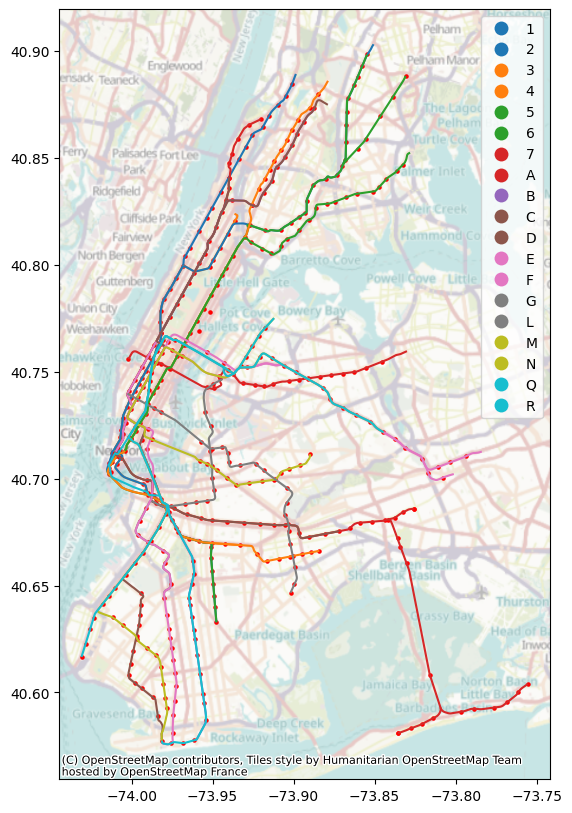
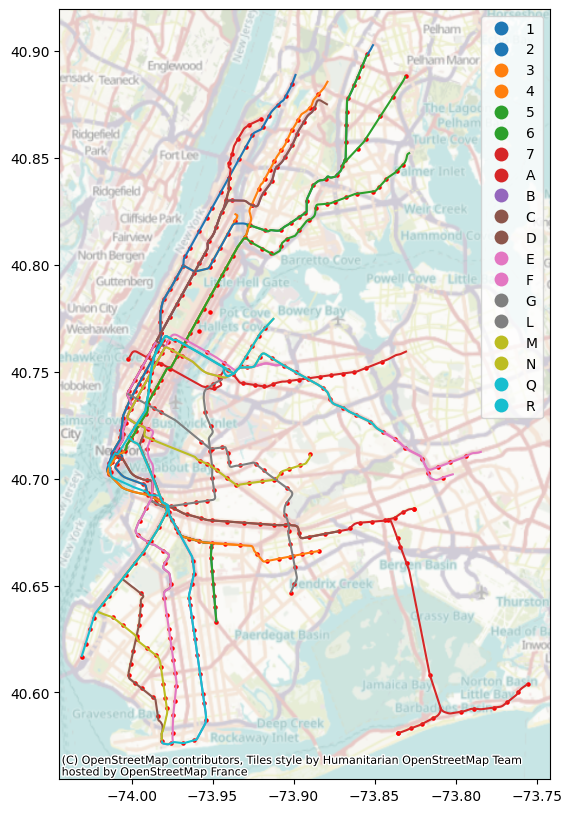
add new page

diff --git a/pages/A special case of the inspection paradox.py b/pages/A special case of the inspection paradox.py
@@ -1,0 +1,138 @@
+import h3
+import h3pandas
+import pandas as pd
+import plotly.graph_objects as go
+import geopandas as gpd
+import contextily as cx
+from shapely.geometry import Polygon
+import plotly.express as px
+from shapely.wkt import loads
+import networkx as nx
+import itertools as it
+import numpy as np
+from sklearn.preprocessing import RobustScaler
+import streamlit as st
+import h3
+import h3pandas
+import pandas as pd
+import plotly.graph_objects as go
+import geopandas as gpd
+import contextily as cx
+from shapely.geometry import Polygon, LineString, Point, MultiLineString, MultiPoint
+import plotly.express as px
+from shapely.wkt import loads
+import networkx as nx
+import itertools as it
+import numpy as np
+import shapely
+from pyproj import Geod
+from shapely import ops, geometry
+import re
+import matplotlib.pyplot as plt
+import matplotlib
+
+st.markdown("""
+    
+    """)
+
+st.markdown("""
+Suppose you are tasked with the following problem:
+You would like to calculate the fall-out rate of your friendships.
+Suppose to make new friends at regular intervals, and your friendships can go on at most 3 years.
+In order to calculate the length of your friendship, you need both the start and end dates.
+There are two possible ways a friendship can end: amicably and spitefully.
+A friendship can end in spite at any given point in the friendship. When a friendship ends in spite, this is called a fall-out.
+You would like to calculate the fall-out rate of your friendships, defined as: (# of fall outs)/(# of friendships) across any given interval of time.
+Suppose you started gathering data 3 years ago, and have since made X friends and collected their respective start dates.
+You were able to observe the outcomes of all X friendships. However, you still would like to use more data.
+
+You have the following option: you are able to reach out to people with whom you were friends with exactly three years ago
+(i.e. your friendship began before you began to experiment, but existed during.) You can reach out to them and ask for the start dates of those friendships.
+You retrospectively know the outcomes of those friendships, and collecting their start date would allow you to add these observations to your dataset.
+
+The question is: should you do this? You want to keep your observations unbiased.
+Is there a way in which you can include this retrospective data without introducing bias? 
+""")
+
+st.markdown("""
+You might recognize this as survivorship bias. Specifically, as it relates to time, it is a special
+base of the bus (or inspection) paradox, which asserts that your measurement of the length of an interval is biased by the fact that
+you are more likely to sample from longer intervals. In the case of the bus paradox, this means that the average wait time experienced by a rider is longer than
+the average time between stops for the bus driver, because a rider arriving at a bus stop is more likely to encounter delayed schedules.
+There is a similar effect in the case of friendships, where your friends tend to be more popular than you are,
+because you are more likely to be friends with people who are themselves popular. And of course, there is the classic example of the WWII airplanes, where
+the planes which returned from missions were more likely to be the ones which survived, and structural weaknesses were actually more likely to be
+in places where the survived planes were not shot. 
+
+Just like the above three examples, your experiment to measure the fall-out rate of your friendships is biased by the fact that you are more likely to sample longer friendships
+if you include observations sampled from a single point in time (exactly three years ago). This is because you are more likely to sample friendships that survive longer.
+However, you are not trying to sample to average length of a friendship -- you are trying to sample the average outcome.
+
+Ah -- there it is. The real question is: are outcomes independent of the length of a friendship? If so, then it doesn't matter if you sample from a single point in time or not,
+since friendships of any length are equally likely to end in a fall-out. This may not be intuitively obvious. You may argue, "still, you
+are you are more likely to sample from longer friendships. Therefore, friendships which have already ended in fall-outs are underrepresented in your sample, even though they
+may have began at the same time as your current friendships."
+# talk about constant hazards in a left-truncated sample
+
+So, we find that: including retrospective data is not biased if the outcome of a friendship is independent of the length of the friendship. However, what if it is? 
+Let's consider two possibilities: if the fall-out rate increases over time, and if the fall-out rate decreases over time.
+"""
+)
+
+st.markdown("## Degrading fall-out rates")
+st.markdown("""
+Suppose that the risk of fall-out decreases as a function of time. Therefore, the longer a friendship lasts, the less likely it is to end in a fall-out. In other words,
+fall-outs are more likely to be observed among the population of new friends than old friends.
+""")
+
+st.markdown("## Growing fall-out rates")
+st.markdown("""
+Suppose that the risk of fall-out increases as a function of time. The longer you are friends with someone, the more likely you are to fall out with them.
+How the instantaneous fallâ€‘out hazard Î»(age) behaves
+Effect of including the older, leftâ€‘truncated friendships (no age adjustment)
+Direction of bias in the naÃ¯ve fallâ€‘out proportion
+Hazard increases with age(friendships get more fragile the longer they last)
+The extra friendships you import are older and therefore enter the threeâ€‘year window with a higher perâ€‘year risk of ending than the new ones you are primarily interested in.Â  They add a disproportionately large number of fallâ€‘outs to the numerator while counting fully in the denominator.
+Bias upward â€“ you will overâ€‘estimate the true fallâ€‘out rate for a cohort of newly formed friendships.
+Hazard decreases with age(friendships get more stable over time)
+Only the robust friendships survive long enough to appear at baseline; these older ties now carry a lower perâ€‘year risk of ending than brandâ€‘new friendships.Â  They inflate the denominator but contribute relatively few events to the numerator.Â  In addition, the highâ€‘risk early failures that occurred before the study are missing entirely.
+Bias downward â€“ you will underâ€‘estimate the true fallâ€‘out rate for newly formed friendships.
+""")
+
+st.markdown("## Conclusion")
+st.markdown("""
+    So, what should you do? Since the reliability of this experiment is dependent on the relationship between the fall-out rate and time, if you resolve the
+    functional form of this relationship, then you can back-calculate the bias introduced by including retrospective data, and then you can use this to
+    adjust your observations. You can't change the fact that your samples are biased, but you can adjust your analysis to account for it, just
+    like how you can choose to add armor to the places where the planes were not shot.
+    
+    Why this happens
+	1.	Left truncation / survivorship selection
+A friendship that began before the study is observed only if it survived up to time 0.  Survival to that age is informative whenever λ(age) is not flat.
+	2.	No age model ⇒ implicit mixing
+By treating all friendships identically in the analysis you implicitly weight the risk set toward older ages.  If older age carries different hazard, the overall event rate you compute is pulled in that direction.
+	3.	Direction of distortion
+Increasing hazard: older friendships have more future risk ⇒ proportion ends rises.
+Decreasing hazard: older friendships have less future risk and early high‑risk ties are missing ⇒ proportion ends falls.
+
+Bottom line
+	•	If fall‑out risk rises with friendship age, adding the retrospective ties without modeling age will make the sample look too fragile (over‑estimate).
+	•	If fall‑out risk falls with age, the sample will look too durable (under‑estimate).
+
+    """)
+st.markdown("""
+            The problem of bias hinges greatly on whether the fall-out rate is truly constant over time. A constant fall-out rate means the hazard of a friendship ending is the same at all friendship ages. In survival analysis terms, the friendship duration $T$ would follow an exponential distribution with a constant hazard $\lambda$ (per unit time). A well-known property of the exponential distribution is that it is memoryless: it has no aging effect. Formally, for an exponential distribution, $$P(T > t+s \mid T > s) = P(T > t),$$ meaning that given a friendship has lasted $s$ time units already, the probability it survives an additional $t$ units is the same as if it were brand new ￼. Or in words, “a system surviving at time $t$ forgets how old it is, and so the conditional probability that it survives an additional time $s$ (given it’s survived up to $t$) is the same as the probability of a brand new system surviving $s$” ￼. This “lack of aging” or “memoryless” property uniquely defines the exponential distribution ￼.
+
+Why is this important? Because if friendships truly have a constant hazard (no matter if they are new or years old, their risk of break-up per year is the same), then including the left-truncated friendships need not introduce bias provided we handle the data correctly. Under a constant hazard:
+	•	The fact that a retrospective friendship survived to the beginning of the observation period does not make it any less or more likely to end in the next 3 years than a brand-new friendship. In other words, those older friendships “forget” their past and behave like new ones going forward ￼. There is no inherent difference in fall-out probability in the study window between a friendship that’s already 5 years old at baseline and a friendship that formed at baseline, assuming the hazard truly stays constant over time.
+	•	Therefore, no systematic bias is introduced by the survivorship selection in terms of estimating the hazard during the observation window. We aren’t selectively including friendships with different forward risk – under the memoryless property, all friendships have identical risk profiles for the future regardless of past duration. This means the retrospective friendships can contribute valid information about the fall-out rate just like the new ones.
+
+However, it is critical that we properly account for their inclusion. In practice, “properly accounting” means we acknowledge their delayed entry into observation. Techniques like survival analysis with left-truncated data (also called late entry) would include these friendships in the risk set only from the time they became observable (time 0) and count their eventual fall-out or censoring accordingly. The constant hazard ensures that this late entry does not distort the estimated hazard. In fact, simulation studies confirm this: when all individuals have the same risk profile (homogeneous hazard), including subjects who enter late (after surviving some time) produces no bias compared to a fully observed cohort ￼. For instance, Applebaum et al. (2011) found “with homogeneous susceptibility, there were no differences between incident (new) and prevalent (left-truncated) subjects” in hazard estimates, whereas heterogeneity in risk did introduce bias ￼.
+
+On the other hand, if the fall-out rate is not constant over time (e.g. friendships become less likely to break up the longer they’ve lasted, or perhaps the risk spikes at certain ages), then including only those friendships that survived to a certain age will bias the estimate. This is because the sample of older friendships is no longer representative of all friendships with respect to risk. For example, if friendships that endure a couple of years are inherently more stable (lower hazard), then the group of pre-existing friendships at baseline is tilted toward these more stable relationships. They would tend to have lower probability of falling out during the study than a random newly formed friendship. Mixing them with new friendships without adjustment would then underestimate the overall fall-out rate (because you added a bunch of long-lasting friendships that are less likely to end). Conversely, if risk increases with time (unlikely in friendship context, but hypothetically), those surviving longer might actually have higher future risk, which could bias the estimate in the opposite direction. The key point is: without the memoryless property, survival up to baseline carries information about the friendship’s risk level, and ignoring that leads to bias.
+
+Including Retrospective Friendships Without Bias
+
+Given the assumption of a constant hazard (memoryless friendship fall-out rate), it is possible to include the retrospective friendships without biasing the fall-out rate estimate,
+""")
+

diff --git a/app.py b/app.py
@@ -4,7 +4,8 @@ pg = st.navigation([st.Page("About.py"),
                     st.Page("pages/Puppy weight calculator.py"),
                     st.Page("pages/Slim Jim percentage.py"),
                     st.Page("pages/Plotting my next move.py"),
-                    st.Page("pages/Is grad school worth it?.py")
+                    st.Page("pages/Is grad school worth it?.py"),
+                    st.Page("pages/A special case of the inspection paradox.py"),
                     ])
 
 pg.run()

diff --git a/pages/Plotting my next move.py b/pages/Plotting my next move.py
@@ -60,7 +60,7 @@ def split_linestring(linestring, points):
 
 @st.cache_data
 def get_nyc_geo():
-    return gpd.read_file("https://data.cityofnewyork.us/api/geospatial/tqmj-j8zm?method=export&format=Shapefile")
+    return gpd.read_file("https://data.cityofnewyork.us/resource/gthc-hcne.geojson")
 
 @st.cache_data
 def get_ridership():